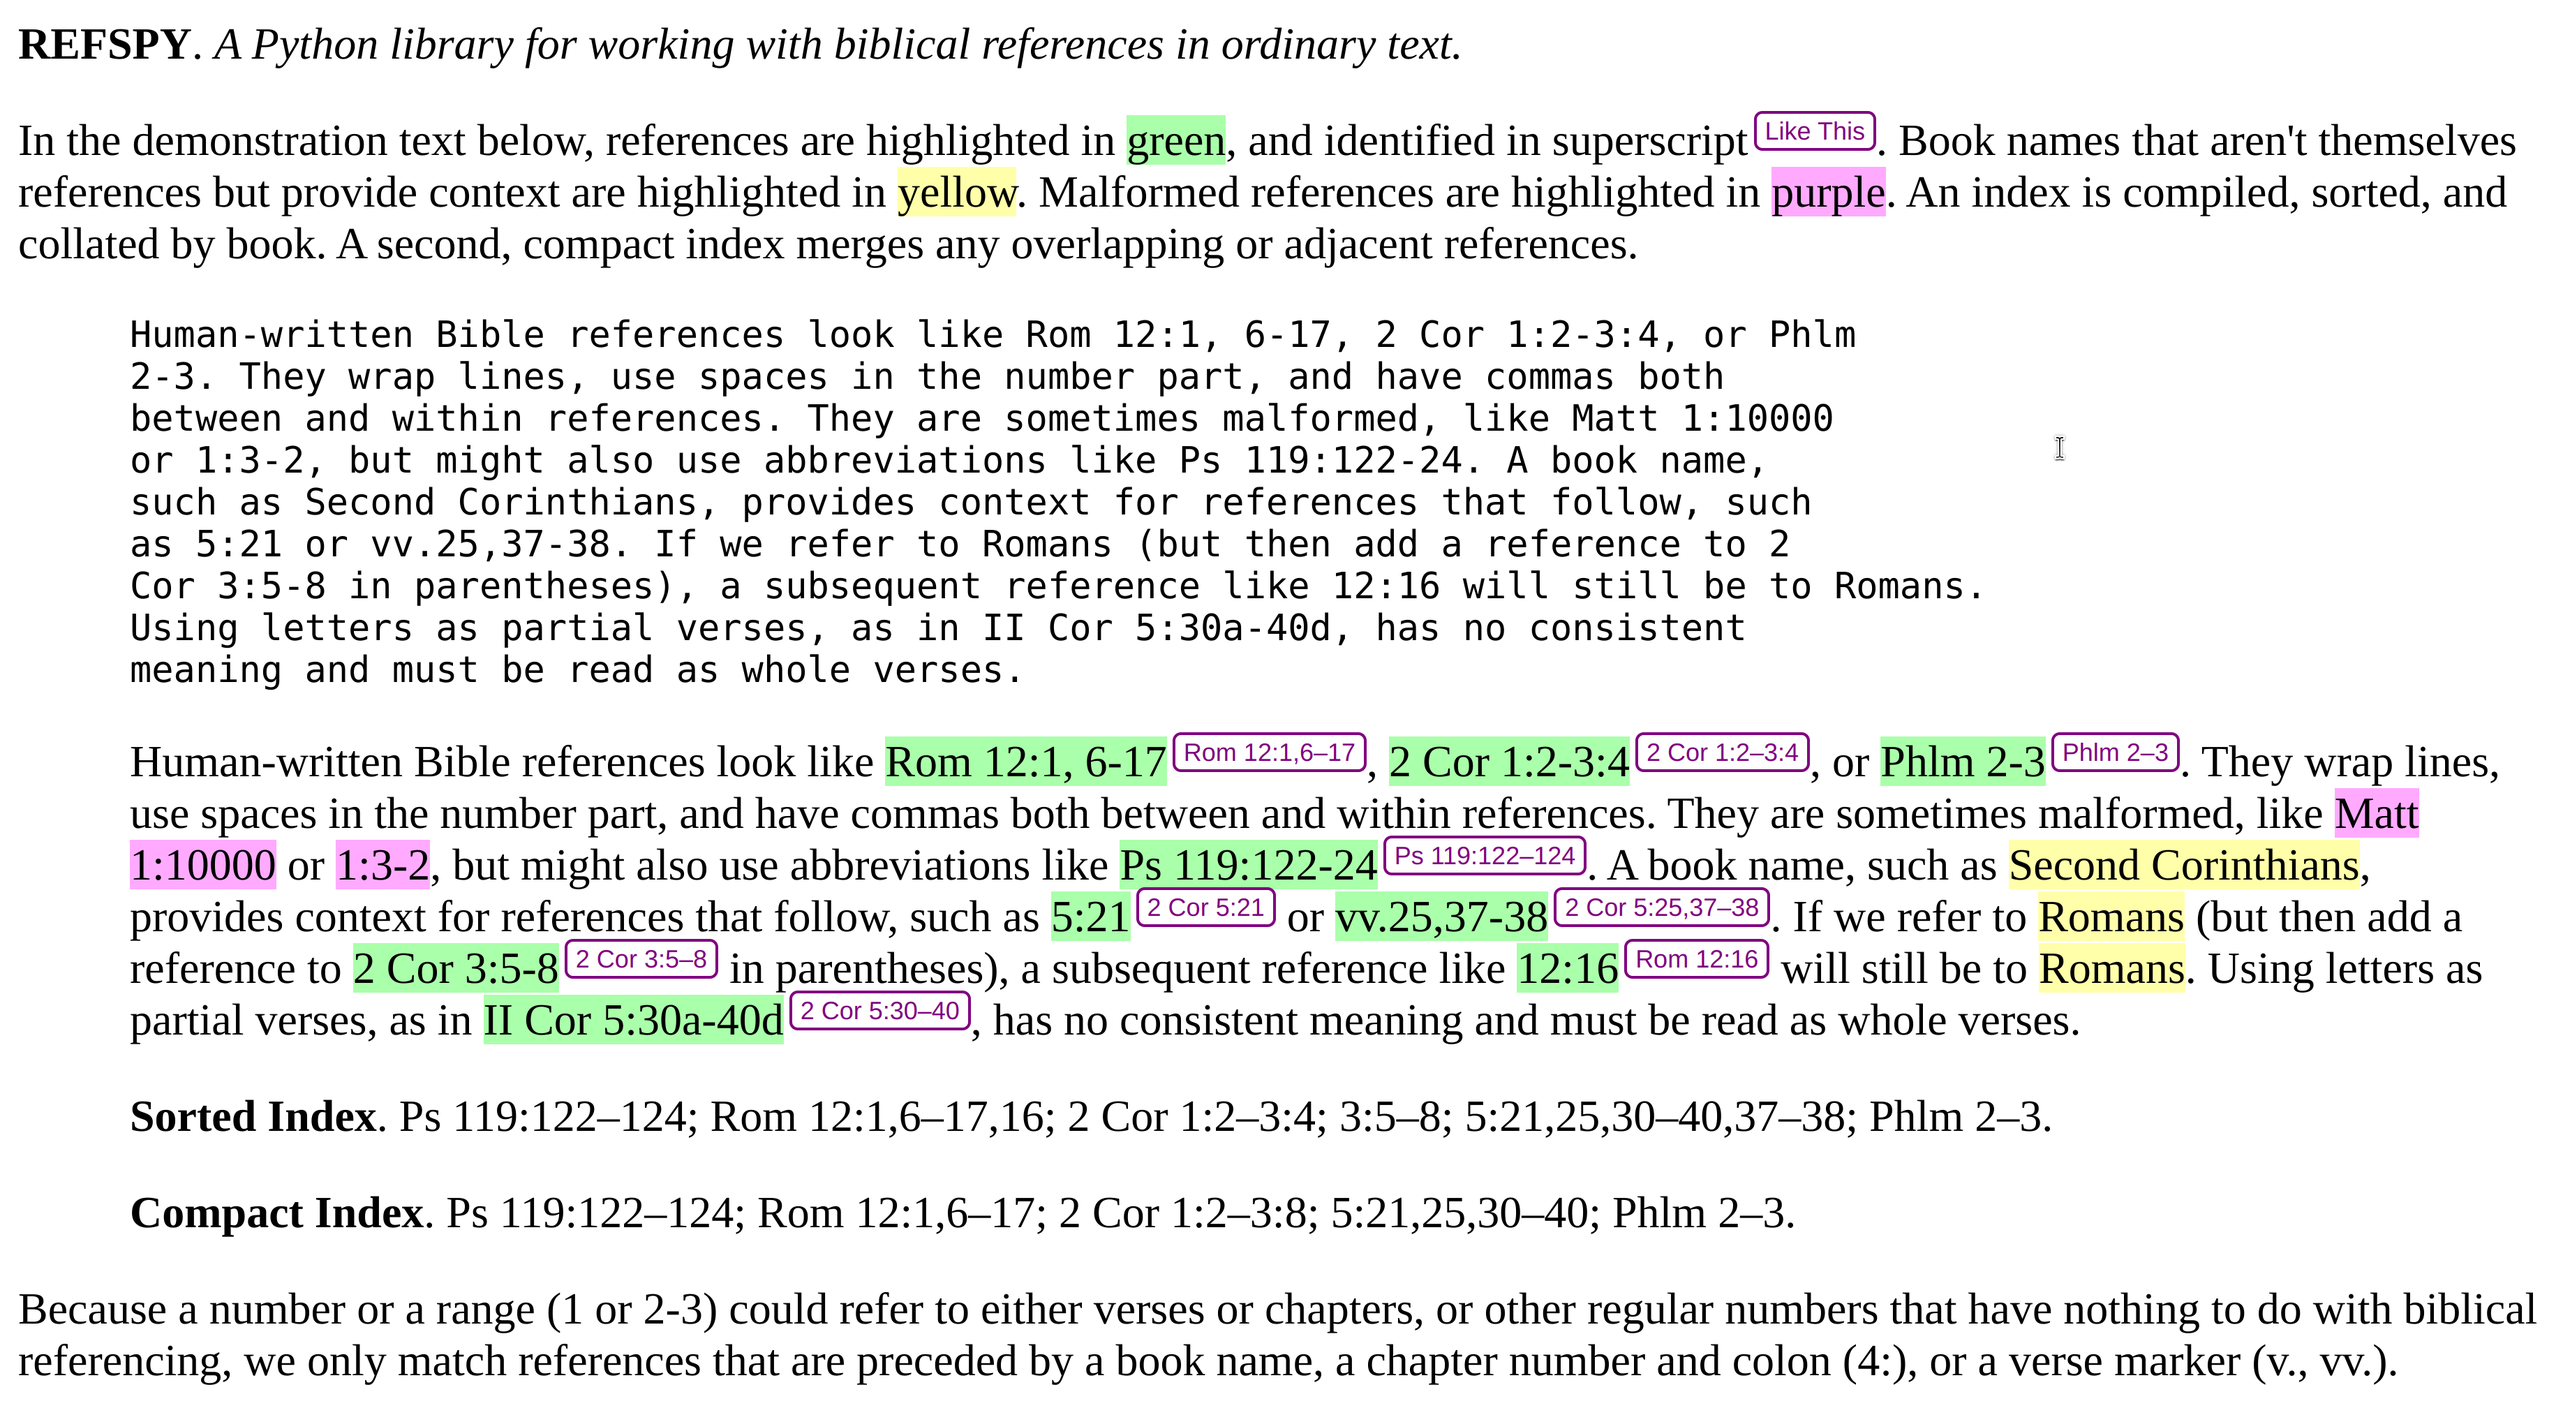
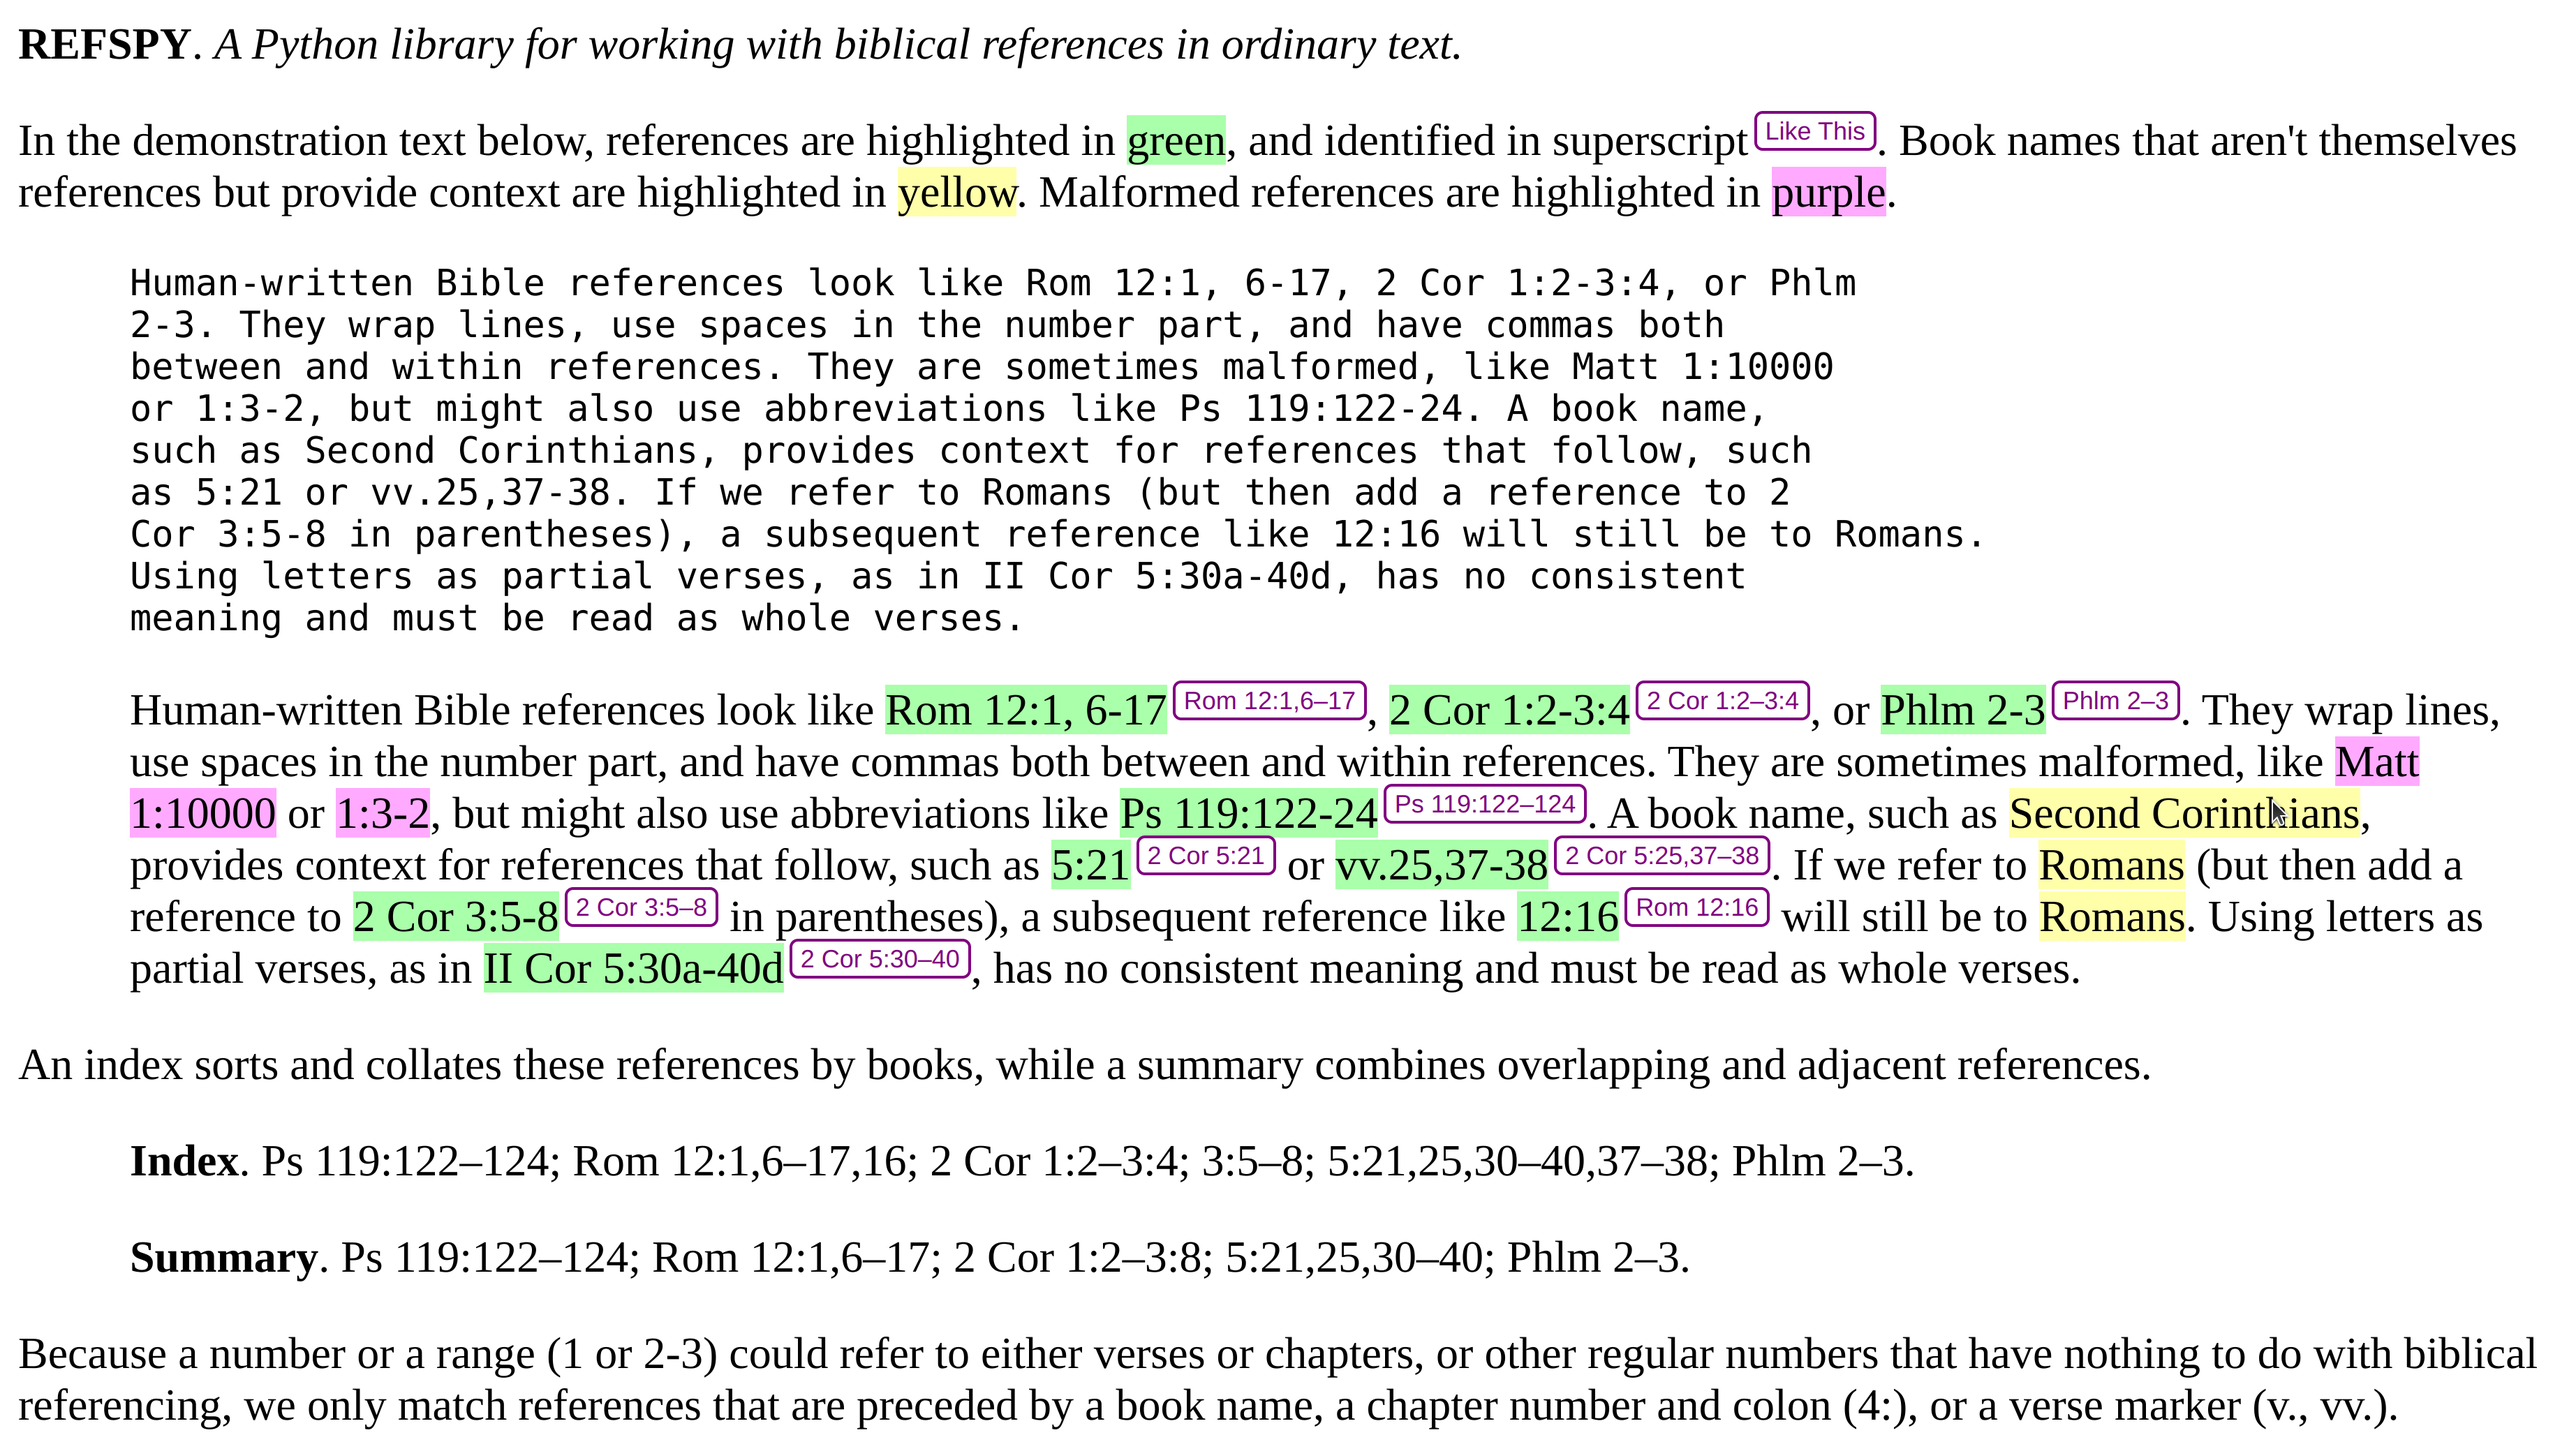
Added make_index() and make_summary()

diff --git a/demo.html b/demo.html
@@ -11,6 +11,8 @@
             .yellow { background-color: #ffffaa; }
         </style>
     </head>
+
+
     <body>
         <p><b>REFSPY</b>. <i>A Python library for working with biblical
         references in ordinary text.</i></p>
@@ -19,12 +21,7 @@
         This</sup>. Book names that aren't themselves references but provide
         context are highlighted in <span class="yellow">yellow</span>.
         Malformed references are highlighted in <span
-        class="purple">purple</span>. An index is compiled, sorted, and
-        collated by book. A second, compact index merges any overlapping or
-        adjacent references.</p>
-
-
-
+        class="purple">purple</span>.</p>
         <blockquote><pre>
 Human-written Bible references look like Rom 12:1, 6-17, 2 Cor 1:2-3:4, or Phlm
 2-3. They wrap lines, use spaces in the number part, and have commas both
@@ -47,8 +44,10 @@ Cor 3:5-8</span><sup>2 Cor 3:5–8</sup> in parentheses), a subsequent reference
 Using letters as partial verses, as in <span class="green">II Cor 5:30a-40d</span><sup>2 Cor 5:30–40</sup>, has no consistent
 meaning and must be read as whole verses.
 </blockquote>
-        <blockquote><b>Sorted Index</b>. Ps 119:122–124; Rom 12:1,6–17,16; 2 Cor 1:2–3:4; 3:5–8; 5:21,25,30–40,37–38; Phlm 2–3.</blockquote>
-        <blockquote><b>Compact Index</b>. Ps 119:122–124; Rom 12:1,6–17; 2 Cor 1:2–3:8; 5:21,25,30–40; Phlm 2–3.</blockquote>
+        <p>An index sorts and collates these references by book. A summary does
+        the same but combines overlapping and adjacent references.</p>
+        <blockquote><b>Index</b>. Ps 119:122–124; Rom 12:1,6–17,16; 2 Cor 1:2–3:4; 3:5–8; 5:21,25,30–40,37–38; Phlm 2–3.</blockquote>
+        <blockquote><b>Summary</b>. Ps 119:122–124; Rom 12:1,6–17; 2 Cor 1:2–3:8; 5:21,25,30–40; Phlm 2–3.</blockquote>
         <p> Because a number or a range (1 or 2-3) could refer to either verses or
         chapters, or other regular numbers that have nothing to do with biblical
         referencing, we only match references that are preceded by a book name, a

diff --git a/demo.py b/demo.py
@@ -30,15 +30,9 @@ for match_str, ref in matches:
         tags.append(
             f'<span class="green">{match_str}</span><sup>{__.abbrev(ref)}</sup>'
         )
-sorted_index, compact_index = [], []
-collation = __.collate(sorted([ref for _, ref in matches if ref and not ref.is_book()]))
-for library, book_collation in collation:
-    for book, reference_list in book_collation:
-        sorted_ref = __.sort_references(reference_list)
-        sorted_index.append(__.abbrev(sorted_ref))
-        compact_ref = __.combine_references(reference_list)
-        compact_index.append(__.abbrev(compact_ref))
-
+references = [ref for _, ref in matches]
+index = __.make_index(references)
+summary = __.make_summary(references)
 
 print("""
 <html>
@@ -53,6 +47,8 @@ print("""
             .yellow { background-color: #ffffaa; }
         </style>
     </head>
+""")
+print(f"""
     <body>
         <p><b>REFSPY</b>. <i>A Python library for working with biblical
         references in ordinary text.</i></p>
@@ -61,16 +57,13 @@ print("""
         This</sup>. Book names that aren't themselves references but provide
         context are highlighted in <span class="yellow">yellow</span>.
         Malformed references are highlighted in <span
-        class="purple">purple</span>. An index is compiled, sorted, and
-        collated by book. A second, compact index merges any overlapping or
-        adjacent references.</p>
-
-""")
-print(f"""
+        class="purple">purple</span>.</p>
         <blockquote><pre>{text}</pre></blockquote>
         <blockquote>{sequential_replace(text, strs, tags)}</blockquote>
-        <blockquote><b>Sorted Index</b>. {"; ".join(sorted_index)}.</blockquote>
-        <blockquote><b>Compact Index</b>. {"; ".join(compact_index)}.</blockquote>
+        <p>An index sorts and collates these references by book. A summary does
+        the same but merges overlapping and adjacent references.</p>
+        <blockquote><b>Index</b>. {index}.</blockquote>
+        <blockquote><b>Summary</b>. {summary}.</blockquote>
         <p> Because a number or a range (1 or 2-3) could refer to either verses or
         chapters, or other regular numbers that have nothing to do with biblical
         referencing, we only match references that are preceded by a book name, a

diff --git a/refspy/manager.py b/refspy/manager.py
@@ -62,6 +62,34 @@ class Manager:
         """Delegate navigation tasks."""
 
     # -----------------------------------
+    # Index and summary functions
+    # -----------------------------------
+
+    def make_index(self, references: List[Reference]) -> str:
+        """Write a one-line index of references, sorted and grouped by book.abbrev."""
+        index = []
+        collation = self.collate(
+            sorted([ref for ref in references if ref and not ref.is_book()])
+        )
+        for _, book_collation in collation:
+            for _, reference_list in book_collation:
+                sorted_ref = self.sort_references(reference_list)
+                index.append(self.abbrev(sorted_ref))
+        return "; ".join(index)
+
+    def make_summary(self, references: List[Reference]) -> str:
+        """Write a one-line summary, like for index, but merge and join ranges."""
+        summary = []
+        collation = self.collate(
+            sorted([ref for ref in references if ref and not ref.is_book()])
+        )
+        for _, book_collation in collation:
+            for _, reference_list in book_collation:
+                compact_ref = self.combine_references(reference_list)
+                summary.append(self.abbrev(compact_ref))
+        return "; ".join(summary)
+
+    # -----------------------------------
     # Merging functions
     # -----------------------------------
 

diff --git a/CHANGES.md b/CHANGES.md
@@ -1,11 +1,15 @@
 # Changes
 
-## 0.9.1-4 -- BETA
+## 0.9.* -- BETA DEVELOPMENT
+
+* Initial release 
+
+### 0.9.1-4 -- GAMMA
 
 * Initial release; features and implementation may change before 1.0.0; the
   manager facade should provide a consistent and backwards-compatible interface.
 
-## 0.9.5 -- BETA
+### 0.9.5 -- BETA
 
 * Removed 'depth' from books; determined by book.chapters == 1.
 * Removed 'code' from books and library; __.param() is calculated from book.abbrev.
@@ -14,3 +18,17 @@
 * Added pdoc for readthedocs.io.
 * Added sort_references(), merge_references(), combine_references().
 
+### 0.9.6 -- BETA
+
+* Remove unused functions and types.
+* Infer abbreviations in number ranges.
+* Added merge_ranges() and combine_ranges() + tests
+* Add range constructor functions for verses.
+
+### 0.9.7 -- BETA
+
+* Add make_index() and make_summary(); add to demo.
+
+### 1.0.0 -- ALPHA
+
+(Future)
